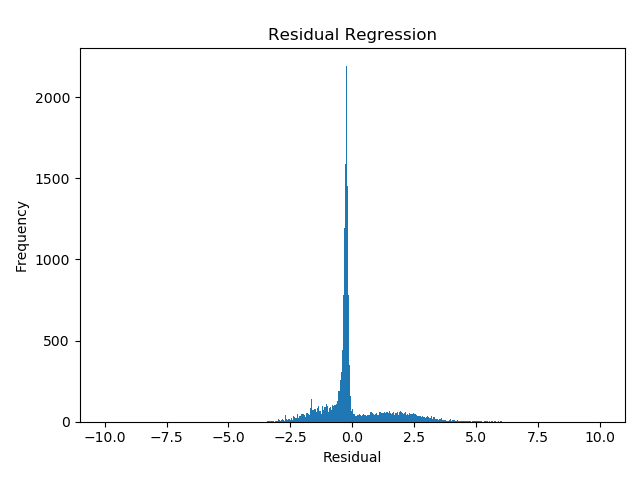
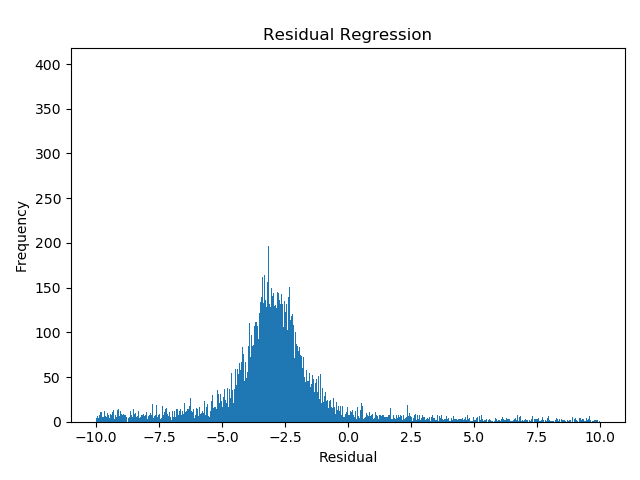
day 5 lunch exercise 5

diff --git a/day5-lunch/lunch5_ex5.py b/day5-lunch/lunch5_ex5.py
@@ -12,7 +12,7 @@ H3K4me1 = pd.read_csv(sys.argv[2], sep="\t", header = None, names= ["t_name", "s
 H3K4me3 = pd.read_csv(sys.argv[3], sep="\t", header = None, names= ["t_name", "size", "covered", "sum", "mean_zero", "mean"], index_col="t_name")
 H3K9me3 = pd.read_csv(sys.argv[4], sep="\t", header = None, names= ["t_name", "size", "covered", "sum", "mean_zero", "mean"], index_col="t_name")
 
-df = pd.DataFrame(np.log(ctab["FPKM"]+ 1))
+df = pd.DataFrame(ctab["FPKM"])
 
 df["H3K4me1"] = H3K4me1["mean"]
 df["H3K4me3"] = H3K4me3["mean"]
